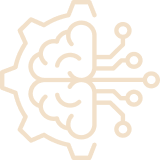
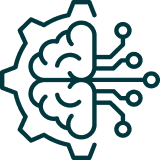
wip

Changed region(s): [[0.0, 0.0, 1.0, 1.0]]

diff --git a/src/components/pages/team/section1.tsx b/src/components/pages/team/section1.tsx
@@ -13,39 +13,39 @@ import { Children } from 'react';
 export const TeamSection1 = () => {
   const DATA = [
     {
-      image: '/noor.png',
-      name: 'Noor-ul hasan ',
-      title: 'Developer',
+      image: '/shweta.png',
+      name: 'Shweta P',
+      title: 'CEO',
     },
     {
-      image: '/noor.png',
-      name: 'Noor-ul hasan ',
-      title: 'Developer',
+      image: '/abizer.png',
+      name: 'Abizer S',
+      title: 'CTO',
     },
     {
-      image: '/noor.png',
-      name: 'Noor-ul hasan ',
-      title: 'Developer',
+      image: '/mohit.png',
+      name: 'Mohit M',
+      title: 'Full Stack Developer',
     },
     {
-      image: '/noor.png',
-      name: 'Noor-ul hasan ',
-      title: 'Developer',
+      image: '/sejan.png',
+      name: 'Sejan Khan',
+      title: 'Python Developer',
     },
     {
-      image: '/noor.png',
-      name: 'Noor-ul hasan ',
-      title: 'Developer',
+      image: '/monika.png',
+      name: 'Monika S',
+      title: 'Quantum Engineer',
     },
     {
-      image: '/noor.png',
-      name: 'Noor-ul hasan ',
-      title: 'Developer',
+      image: '/noorul.png',
+      name: 'Noor-ul H',
+      title: 'Frontend Developer',
     },
     {
-      image: '/noor.png',
-      name: 'Noor-ul hasan ',
-      title: 'Developer',
+      image: '/sujal.png',
+      name: 'Sujal M ',
+      title: 'Backend Developer',
     },
   ];
   return (
@@ -56,13 +56,13 @@ export const TeamSection1 = () => {
             <>
               <Stack gap={1}>
                 <Center>
-                  <AspectRatio ratio={10 / 8}>
-                    <Image alt="image" maw={200} src={item.image} />
+                  <AspectRatio ratio={11 / 13}>
+                    <Image radius='lg' alt="image" maw={200} src={item.image} />
                   </AspectRatio>
                 </Center>
 
-                <Group p="md" justify="space-between" align="start">
-                  <Stack>
+                <Group p="md" justify="space-evenly" align="start">
+                  <Stack gap={2}>
                     <Text ta="left" size="md">
                       {item.name}
                     </Text>

diff --git a/src/components/pages/about/section2.tsx b/src/components/pages/about/section2.tsx
@@ -54,10 +54,10 @@ export const AboutSection2 = () => {
   const { MD } = useMediaQuerys();
   return (
     <>
-      <Center py={SIZE_CONFIG.SECTION_SPACE} mih="100vh" bg={COLOR.TURQUOISE}>
+      <Center py={SIZE_CONFIG.SECTION_SPACE} mih="100vh" >
         <Stack align="center">
-          <Title c={COLOR.GREEN}>Our Process</Title>
-          <Text maw={800} c={COLOR.PEACH} ta="center">
+          <Title c={COLOR.TURQUOISE}>Our Process</Title>
+          <Text maw={800} c={COLOR.TURQUOISE} ta="center">
             Our large and growing multinational team of consultants, managers,
             data specialists, and technologists is at the very heart of our
             success. We foster a culture of continuous learning and strive every
@@ -70,15 +70,12 @@ export const AboutSection2 = () => {
                   <Paper
                     p="md"
                     bg="transparent"
-                    style={{ borderColor: COLOR.GREEN }}
-                    // h={120}
-                    // w={MD ? "90%" : "5.5vw"}
+                    style={{ borderColor: COLOR.TURQUOISE }}
                     radius={0}
                     withBorder
                     mih={140}
                   >
                     <Stack
-                      //  miw={MD ? 350 : 300}
                       justify="space-between"
                     >
                       <Group justify="end">
@@ -91,11 +88,11 @@ export const AboutSection2 = () => {
                         </AspectRatio>
                       </Group>
                       <Stack gap={1}>
-                        <Text c={COLOR.PEACH} size={MD ? '2vw' : '5vw'}>
+                        <Text c={COLOR.TURQUOISE} size={MD ? '2vw' : '5vw'}>
                           {item.No}
                         </Text>
-                        <Text c={COLOR.PEACH}>{item.title}</Text>
-                        <Text c={COLOR.PEACH}>{item.text}</Text>
+                        <Text c={COLOR.TURQUOISE}>{item.title}</Text>
+                        <Text c={COLOR.TURQUOISE}>{item.text}</Text>
                       </Stack>
                     </Stack>
                   </Paper>

diff --git a/src/components/header/common.tsx b/src/components/header/common.tsx
@@ -59,7 +59,7 @@ const DATA = [
     menu: [
       {
         list: [
-          { text: 'Quantune.py', link: '/' },
+          { text: 'Quantune.py', link: '/coming_soon' },
           { text: 'Membership', link: '/membership' },
           { text: 'Chapter', link: '/chapter' },
           { text: 'Journal (Q-Plus)', link: '/journal' },
@@ -220,14 +220,14 @@ export const CommonHeader = () => {
                     <Accordion.Panel>
                       {item.menu?.map((menuItem, idx) => (
                         <Stack key={idx}>
-                          {
-                            (menuItem.title) ?
-                              <Text c={COLOR.TURQUOISE} mt="xs" size="sm">
-                                {menuItem.title}
-                              </Text>
-                              : null
-                          }
+                          {/* Check if menuItem has a title before rendering */}
+                          {'title' in menuItem && menuItem.title ? (
+                            <Text c={COLOR.TURQUOISE} mt="xs" size="sm">
+                              {menuItem.title}
+                            </Text>
+                          ) : null}
 
+                          {/* Render list items */}
                           {menuItem.list.map((linkItem, linkIdx) => (
                             <Text key={linkIdx} c={COLOR.GREEN} size="sm">
                               <Link href={linkItem.link}>{linkItem.text}</Link>
@@ -236,6 +236,7 @@ export const CommonHeader = () => {
                         </Stack>
                       ))}
                     </Accordion.Panel>
+
                   </Accordion.Item>
                 ))}
               </Accordion>

diff --git a/src/components/indie/common_sector_card.tsx b/src/components/indie/common_sector_card.tsx
@@ -9,11 +9,13 @@ import {
 import { Children } from 'react';
 import { CommonButton } from './common_button';
 import { COLOR } from '@/configs/theme';
+import Link from 'next/link';
 
 interface Props {
   title: string;
+  href: string;
   description: string;
-  data: {
+  data?: {
     list: string;
   }[];
 }
@@ -21,16 +23,16 @@ interface Props {
 export const CommonSectorCard = (props: Props) => {
   return (
     <>
-      <Paper mih="90vh" bg={COLOR.PEACH} p="md" withBorder>
+      <Paper component={Link} href={props.href} mih="90vh" bg={COLOR.PEACH} p="md" withBorder>
         <Stack h="100%" p="md" justify="space-between">
           <Title>{props.title}</Title>
           <Divider color={COLOR.TURQUOISE} />
-          <Text>{props.title}</Text>
+          <Text>{props.description}</Text>
           <Divider color={COLOR.TURQUOISE} />
 
           <Stack>
             {Children.toArray(
-              props.data.map((item) => (
+              props.data?.map((item) => (
                 <>
                   <List spacing="xs" size="sm" center>
                     <List.Item>{item.list}</List.Item>
@@ -39,7 +41,7 @@ export const CommonSectorCard = (props: Props) => {
               ))
             )}
           </Stack>
-          <CommonButton title="Contact us" />
+          <CommonButton href='/contact' title="Contact us" />
         </Stack>
       </Paper>
     </>

diff --git a/src/components/pages/blog/section2.tsx b/src/components/pages/blog/section2.tsx
@@ -6,39 +6,39 @@ import { Children } from "react"
 const DATA = [
     {
         text: 'Outline and align project scope.',
-        image: '/q-ml.png',
+        image: '/q-ml-1.png',
     },
     {
         text: 'Outline and align project scope.',
-        image: '/q-ml.png',
+        image: '/q-ml-1.png',
     },
     {
         text: 'Outline and align project scope.',
-        image: '/q-ml.png',
+        image: '/q-ml-1.png',
     },
     {
         text: 'Outline and align project scope.',
-        image: '/q-ml.png',
+        image: '/q-ml-1.png',
     },
     {
         text: 'Outline and align project scope.',
-        image: '/q-ml.png',
+        image: '/q-ml-1.png',
     },
     {
         text: 'Outline and align project scope.',
-        image: '/q-ml.png',
+        image: '/q-ml-1.png',
     },
     {
         text: 'Outline and align project scope.',
-        image: '/q-ml.png',
+        image: '/q-ml-1.png',
     },
     {
         text: 'Outline and align project scope.',
-        image: '/q-ml.png',
+        image: '/q-ml-1.png',
     },
     {
         text: 'Outline and align project scope.',
-        image: '/q-ml.png',
+        image: '/q-ml-1.png',
     },
 ];
 export const BlogSection2 = () => {

diff --git a/src/components/pages/q-ml/section1.tsx b/src/components/pages/q-ml/section1.tsx
@@ -9,6 +9,7 @@ export const QMLSection1 = () => {
         <SimpleGrid cols={{ bese: 1, md: 3 }}>
           <CommonSectorCard
             title="Drug Discovery"
+            href='/'
             description="Take a look at our offers and find the right solution to solve your problem"
             data={[
               { list: 'Feature 1' },
@@ -17,6 +18,8 @@ export const QMLSection1 = () => {
             ]}
           />
           <CommonSectorCard
+            href='/'
+
             title="Drug Discovery"
             description="Take a look at our offers and find the right solution to solve your problem"
             data={[
@@ -26,8 +29,9 @@ export const QMLSection1 = () => {
             ]}
           />
           <CommonSectorCard
-            title="Drug Discovery"
-            description="Take a look at our offers and find the right solution to solve your problem"
+            title="Drug "
+            href='/'
+            description="Take a look at our    find the right solution to solve your problem"
             data={[
               { list: 'Feature 1' },
               { list: 'Feature 1' },

diff --git a/src/components/pages/membership/hero.tsx b/src/components/pages/membership/hero.tsx
@@ -35,11 +35,11 @@ export const MembershipHero = (props: MembershipProps) => {
       >
         <Paper bg="transparent" mih="80vh">
           <Stack h="80vh" justify="center" align="center">
-            <Text c={COLOR.GRAY}>{props.Membership.hero_heading || ''}</Text>
+            <Text c={COLOR.TURQUOISE}>{props.Membership.hero_heading || ''}</Text>
             <Title c={COLOR.GREEN}>{props.Membership.hero_heading || ''}</Title>
             <Stack maw={600} ta="center" gap="xs">
               {props.Membership.text?.map((line, index) => (
-                <Text key={index} c={COLOR.GRAY}>
+                <Text key={index} c={COLOR.PEACH}>
                   {line}
                 </Text>
               ))}

diff --git a/src/lib/data/sectors.ts b/src/lib/data/sectors.ts
@@ -1,0 +1,30 @@
+export interface SectorType {
+  // id: number;
+  title: string;
+  text: string;
+  points: string[];
+  href: string;
+  // section_image: string;
+  // section_text: string;
+}
+
+export const SectorData: SectorType[] = [
+  {
+    title: 'Drug Discovery',
+    text: 'Drug Discovery',
+    points: ['Drug Discovery', 'Drug Discovery', 'Drug Discovery'],
+    href: '/contact',
+  },
+  {
+    title: 'Drug Discovery',
+    text: 'Drug ',
+    points: ['Drug Discovery', 'Drug Discovery', 'Drug Discovery'],
+    href: '/contact',
+  },
+  {
+    title: 'Drug Discovery',
+    text: 'Drug Discovery',
+    points: ['Drug Discovery', 'Drug Discovery', 'Drug Discovery'],
+    href: '/contact',
+  },
+];

diff --git a/src/components/pages/team/hero.tsx b/src/components/pages/team/hero.tsx
@@ -1,15 +1,13 @@
-import { CommonButton } from '@/components/indie/common_button';
-import { Group, Stack, Title } from '@mantine/core';
+import {  Stack, Title } from '@mantine/core';
 
 export const TeamHero = () => {
   return (
     <>
       <Stack p="md" justify="center" align="center" mih="60vh">
-        <Title>We are the people who make untitled</Title>
-        <Group>
-          <CommonButton title="Book a Demo" />
-          <CommonButton title="Start your free trial" />
-        </Group>
+        {/* <BackgroundImage src=''> */}
+
+          <Title>We are the people who make untitled</Title>
+        {/* </BackgroundImage> */}
       </Stack>
     </>
   );

diff --git a/src/lib/data/memberships.ts b/src/lib/data/memberships.ts
@@ -18,7 +18,7 @@ export interface MembershipType {
 export const MainMembershipData: MembershipType[] = [
   {
     id: 1,
-    bg_image: '/quantum-27.webp',
+    bg_image: 'https://img.freepik.com/free-photo/group-coworkers-office-talking_23-2148985520.jpg?t=st=1735634085~exp=1735637685~hmac=ff0895383efbef3ffa2774b6b69dc96303c1517acec5d9a39039b6a0b5278e5a&w=826',
     hero_heading: 'Neocosmicx Membership',
     title: "Join the world's leading Quantum professional community",
     text: [

diff --git a/src/components/pages/pricing/section1.tsx b/src/components/pages/pricing/section1.tsx
@@ -33,7 +33,7 @@ export const PricingSection1 = () => {
   return (
     <>
       <Center py={SIZE_CONFIG.SECTION_SPACE} mih="100vh" bg={COLOR.TURQUOISE}>
-        <SimpleGrid cols={{ base: 1, md: 3 }} spacing={0}>
+        <SimpleGrid cols={{ base: 1, md: 3 }} spacing='xl'>
           {Children.toArray(
             DATA.map((item) => (
               <>

diff --git a/src/components/pages/join_us/section2.tsx b/src/components/pages/join_us/section2.tsx
@@ -48,7 +48,7 @@ export const JoinUsSection2 = () => {
                 </Text>
               </Stack>
             </SimpleGrid>{' '}
-            <CommonButton title="View all teams" />
+            <CommonButton title="View all teams" href='/team' />
           </Stack>
         </SimpleGrid>
       </Container>
